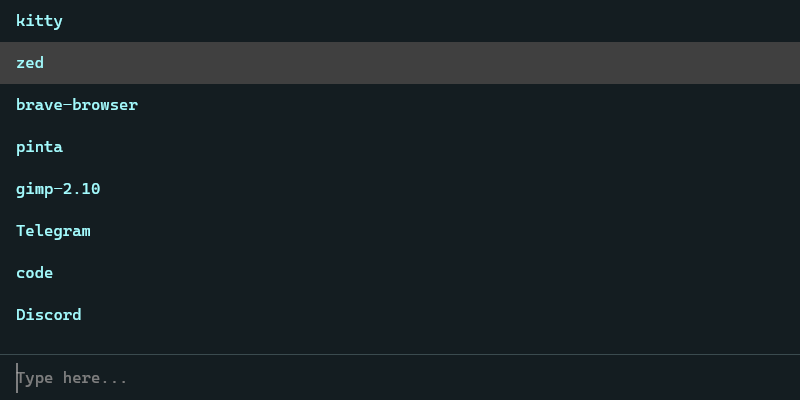
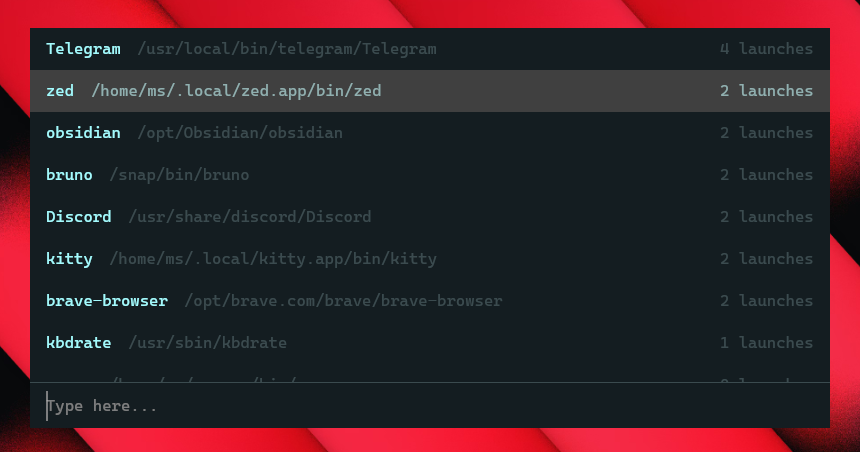
feat: show path and execution count

diff --git a/src/action_list.rs b/src/action_list.rs
@@ -178,7 +178,32 @@ impl gpui::Render for ActionListView {
                                     .id(index + range.start)
                                     .px_4()
                                     .py_2()
-                                    .child(item.action.name.clone())
+                                    .child(match &item.action.action_type {
+                                        ActionType::Program { name, path } => div()
+                                            .flex()
+                                            .gap_4()
+                                            .child(div().flex_none().child(name.to_string()))
+                                            .child(
+                                                div()
+                                                    .flex_grow()
+                                                    .text_color(rgb(0x3B4B4F))
+                                                    .when(is_selected, |elem| {
+                                                        elem.text_color(rgb(0x91B0B0))
+                                                    })
+                                                    .child(path.to_string_lossy().to_string()),
+                                            )
+                                            .child(
+                                                div()
+                                                    .text_color(rgb(0x3B4B4F))
+                                                    .when(is_selected, |elem| {
+                                                        elem.text_color(rgb(0x91B0B0))
+                                                    })
+                                                    .child(format!(
+                                                        "{} launches",
+                                                        item.execution_count
+                                                    )),
+                                            ),
+                                    })
                                     .when(is_selected, |x| x.bg(rgb(0x404040)))
                             })
                             .collect()

diff --git a/src/database.rs b/src/database.rs
@@ -46,7 +46,7 @@ pub enum ActionType {
 #[derive(Debug, Clone)]
 pub struct ActionRanking {
     pub action: Action,
-    execution_count: i32,
+    pub execution_count: i32,
     relevance_score: f64,
 }
 
